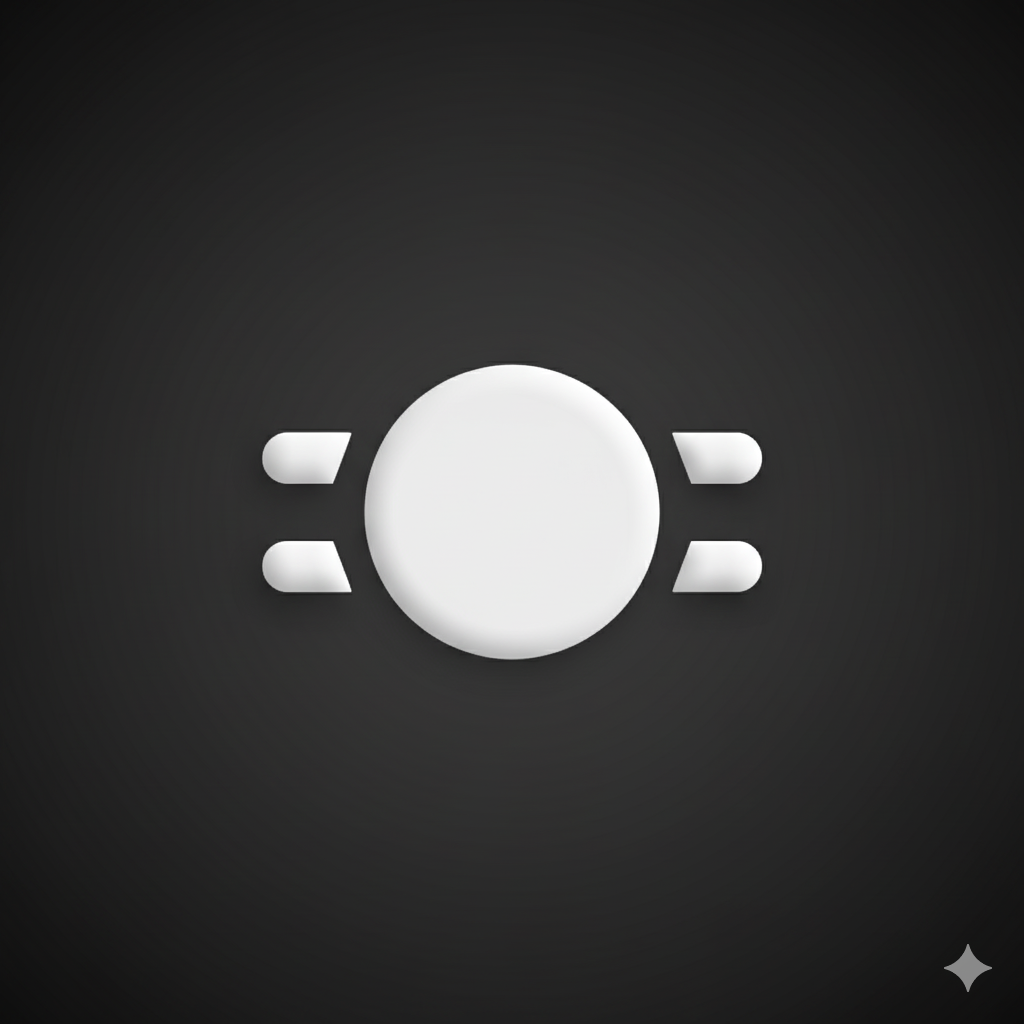
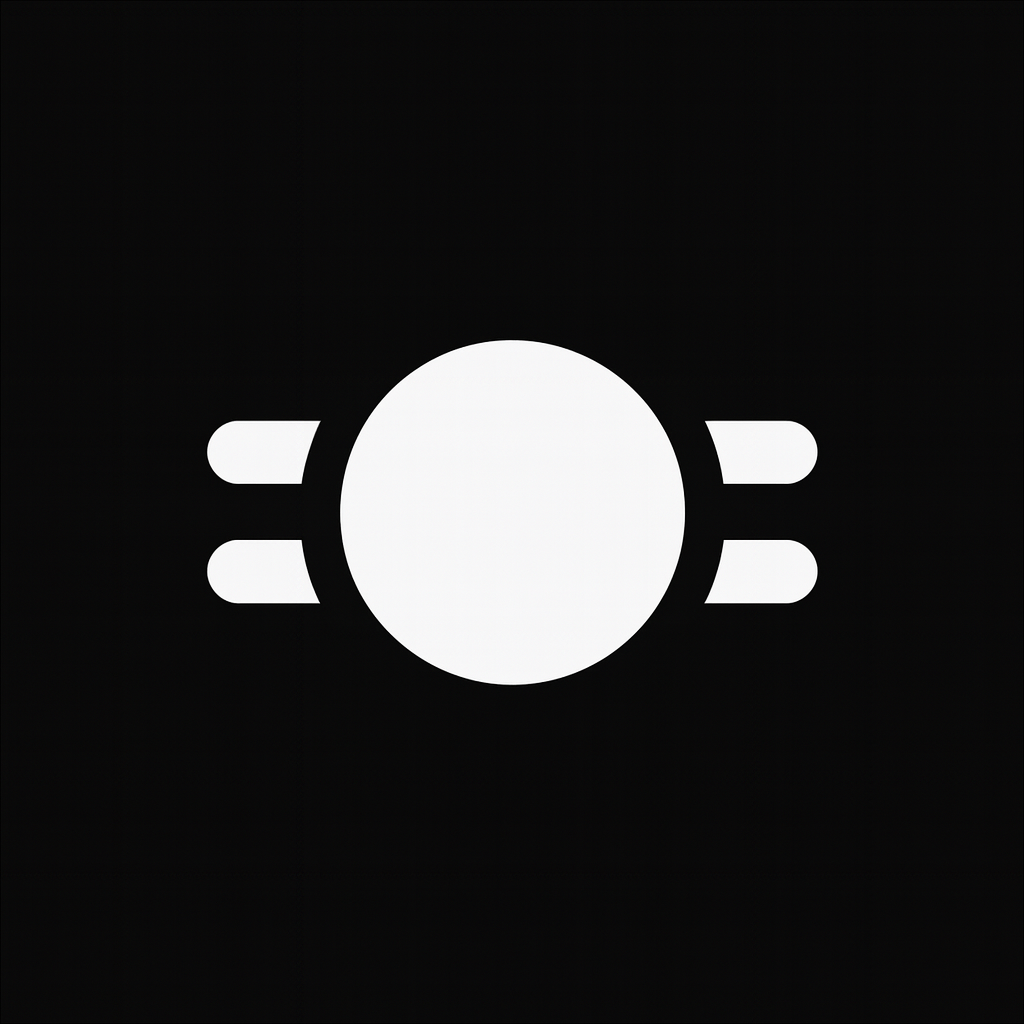
chore: v1 build ready

diff --git a/packages/desktop/src/renderer/src/components/layout/sidebar-layout.tsx b/packages/desktop/src/renderer/src/components/layout/sidebar-layout.tsx
@@ -1,6 +1,6 @@
 import * as React from 'react'
 import { NavLink, Outlet, useLocation } from 'react-router-dom'
-import { LogOut, MessageSquare, Settings } from 'lucide-react'
+import { LogOut, MessageSquare } from 'lucide-react'
 
 import {
   Sidebar,
@@ -20,6 +20,7 @@ import { PromptInsertionPalette } from '@/components/prompt-insertion-palette'
 import { getPromptPaletteShortcutDisplay } from '@/components/prompt-insertion-palette/shortcut'
 import { PromptCapturePaletteTrigger } from '@/components/prompt-capture-palette/prompt-capture-trigger'
 import { useAuth } from '@/hooks/use-auth'
+import icon from '@/assets/icon.png'
 
 // Menu items for the desktop app
 const menuItems = [
@@ -27,32 +28,32 @@ const menuItems = [
     title: 'Prompts',
     url: '/sessions',
     icon: MessageSquare
-  },
-  {
-    title: 'Settings',
-    url: '/settings',
-    icon: Settings
   }
+  // {
+  //   title: 'Settings',
+  //   url: '/settings',
+  //   icon: Settings
+  // }
 ]
 
 function AppSidebar() {
   const location = useLocation()
-  const shortcutHint = React.useMemo(getPromptPaletteShortcutDisplay, [])
+  const shortcutHint = React.useMemo(() => getPromptPaletteShortcutDisplay(false), [])
+  const shortcutHintCapture = React.useMemo(() => getPromptPaletteShortcutDisplay(true), [])
   const auth = useAuth()
 
   return (
     <Sidebar
       variant="inset"
-      className="border-r border-border/60 bg-sidebar text-sidebar-foreground"
+      className={`border-r border-border/60 bg-sidebar text-sidebar-foreground w-[10rem]`}
     >
       <SidebarHeader className="border-b border-border/60">
         <div className="flex items-center gap-2 px-2 py-1">
-          <div className="flex h-8 w-8 items-center justify-center rounded-md bg-gradient-to-r from-purple-500 to-pink-500 text-primary-foreground">
-            <MessageSquare className="h-4 w-4" />
+          <div className="flex h-10 w-10 items-center justify-center rounded-md bg-primary-foreground text-primary-foreground">
+            <img src={icon} alt="CLYO" className="h-10 w-10" />
           </div>
           <div className="grid flex-1 text-left text-sm leading-tight">
-            <span className="truncate font-semibold text-sidebar-foreground">Prompt</span>
-            <span className="truncate text-xs text-muted-foreground">Desktop App</span>
+            <span className="truncate font-semibold text-sidebar-foreground">CLYO</span>
           </div>
         </div>
       </SidebarHeader>
@@ -97,14 +98,14 @@ function AppSidebar() {
           <div className="leading-tight">
             <p className="text-xs font-semibold text-foreground">Prompt capture</p>
             <p className="text-[10px] font-medium uppercase tracking-widest text-muted-foreground">
-              {shortcutHint}
+              {shortcutHintCapture}
             </p>
           </div>
           <PromptCapturePaletteTrigger />
         </div>
         <SidebarMenuButton
           onClick={() => auth.logout()}
-          className="w-full justify-start text-muted-foreground hover:bg-sidebar-accent hover:text-sidebar-accent-foreground"
+          className="w-full justify-start text-muted-foreground hover:bg-sidebar-accent hover:text-sidebar-accent-foreground cursor-pointer"
         >
           <LogOut className="mr-2 h-4 w-4" />
           <span>Log out</span>

diff --git a/packages/desktop/src/renderer/src/components/prompt-insertion-palette/shortcut.ts b/packages/desktop/src/renderer/src/components/prompt-insertion-palette/shortcut.ts
@@ -1,11 +1,10 @@
-export const PROMPT_INSERTION_PALETTE_OPEN_EVENT =
-  "prompt-insertion-palette:open";
+export const PROMPT_INSERTION_PALETTE_OPEN_EVENT = 'prompt-insertion-palette:open'
 
-export function getPromptPaletteShortcutDisplay() {
+export function getPromptPaletteShortcutDisplay(isCapture?: boolean) {
   const isMac =
-    typeof navigator !== "undefined"
-      ? /Mac|iPhone|iPod|iPad/i.test(navigator.platform ?? "")
-      : false;
-  const tokens = isMac ? ["⌘", "⇧", "O"] : ["Ctrl", "⇧", "O"];
-  return tokens.join(" ");
+    typeof navigator !== 'undefined'
+      ? /Mac|iPhone|iPod|iPad/i.test(navigator.platform ?? '')
+      : false
+  const tokens = isMac ? ['⌘', '⇧', isCapture ? 'P' : 'O'] : ['Ctrl', '⇧', isCapture ? 'P' : 'O']
+  return tokens.join(' ')
 }

diff --git a/packages/desktop/src/renderer/src/components/prompt-editor/prompt-editor.tsx b/packages/desktop/src/renderer/src/components/prompt-editor/prompt-editor.tsx
@@ -8,23 +8,9 @@ import StarterKit from '@tiptap/starter-kit'
 import Placeholder from '@tiptap/extension-placeholder'
 import { formatDistanceToNow } from 'date-fns'
 
-import {
-  Form,
-  FormControl,
-  FormField,
-  FormItem,
-  FormLabel,
-  FormMessage
-} from '@/components/ui/form'
+import { Form, FormField } from '@/components/ui/form'
 import { Input } from '@/components/ui/input'
 
-import {
-  Select,
-  SelectContent,
-  SelectItem,
-  SelectTrigger,
-  SelectValue
-} from '@/components/ui/select'
 import { Editor as PromptContentEditor } from '@/components/editor/editor'
 import { EditorToolbar } from '@/components/editor/toolbar/editor-toolbar'
 import { useReplicache } from '@/hooks/use-replicache'

diff --git a/packages/desktop/src/renderer/src/components/ui/sidebar.tsx b/packages/desktop/src/renderer/src/components/ui/sidebar.tsx
@@ -20,7 +20,7 @@ import { Tooltip, TooltipContent, TooltipProvider, TooltipTrigger } from '@/comp
 
 const SIDEBAR_COOKIE_NAME = 'sidebar_state'
 const SIDEBAR_COOKIE_MAX_AGE = 60 * 60 * 24 * 7
-const SIDEBAR_WIDTH = '10.1rem'
+export const SIDEBAR_WIDTH = '10rem'
 const SIDEBAR_WIDTH_MOBILE = '18rem'
 const SIDEBAR_WIDTH_ICON = '3rem'
 const SIDEBAR_KEYBOARD_SHORTCUT = 'b'

diff --git a/packages/desktop/src/main/index.ts b/packages/desktop/src/main/index.ts
@@ -307,7 +307,7 @@ function createWindow(): void {
     height: 670,
     show: false,
     autoHideMenuBar: true,
-    ...(process.platform === 'linux' ? { icon } : {}),
+    icon,
     webPreferences: {
       preload: join(__dirname, '../preload/index.mjs'),
       sandbox: false

diff --git a/packages/desktop/src/renderer/index.html b/packages/desktop/src/renderer/index.html
@@ -2,7 +2,7 @@
 <html>
   <head>
     <meta charset="UTF-8" />
-    <title>Electron</title>
+    <title>CLYO</title>
     <!-- https://developer.mozilla.org/en-US/docs/Web/HTTP/CSP -->
     <meta
       http-equiv="Content-Security-Policy"

diff --git a/packages/desktop/src/renderer/src/pages/auth/index.tsx b/packages/desktop/src/renderer/src/pages/auth/index.tsx
@@ -14,10 +14,6 @@ const providers = [
   {
     id: 'google' as const,
     label: 'Continue with Google'
-  },
-  {
-    id: 'microsoft' as const,
-    label: 'Continue with Microsoft'
   }
 ]
 
